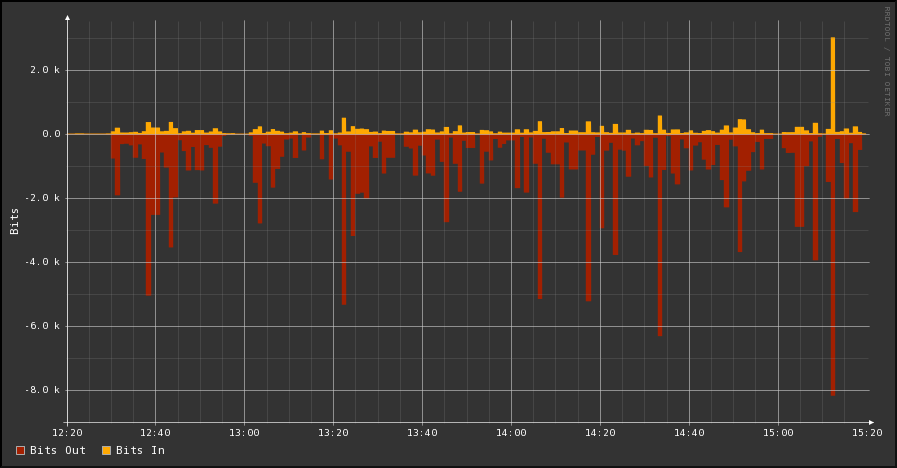
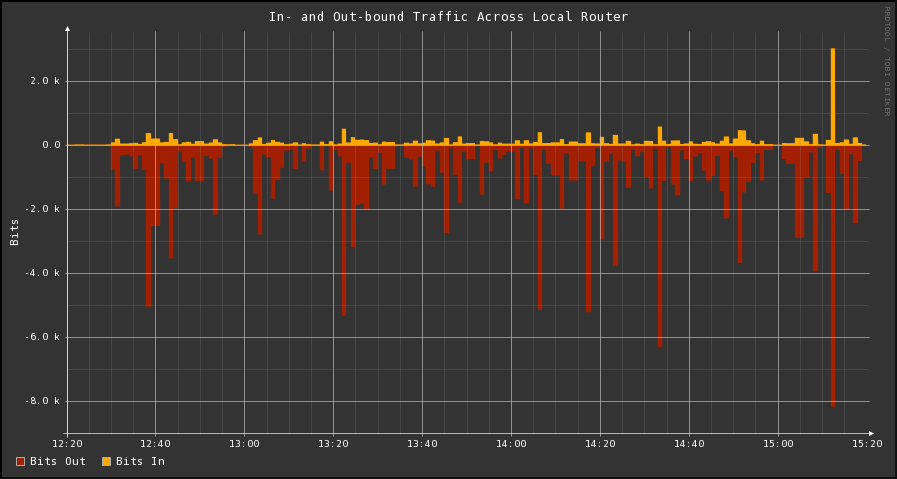
* Updated the commends in example5.py and extended the 3-day archive to a 7-day archive. * Corrected the vname in cdef1 of example5.py.

diff --git a/examples/example5.py b/examples/example5.py
@@ -26,7 +26,7 @@ start_time = 1138259700
 end_time = 1138573200
 max_steps = int((end_time-start_time)/step)
 
-# Let's create and RRD file and dump some data in it
+# Let's setup some data sources for our RRD
 dss = []
 ds1 = DS(ds_name='ds_in_pkts', ds_type='ABSOLUTE', heartbeat=900)
 ds2 = DS(ds_name='ds_in_bits', ds_type='ABSOLUTE', heartbeat=900)
@@ -34,15 +34,17 @@ ds3 = DS(ds_name='ds_out_pkts', ds_type='ABSOLUTE', heartbeat=900)
 ds4 = DS(ds_name='ds_out_bits', ds_type='ABSOLUTE', heartbeat=900)
 dss.extend([ds1, ds2, ds3, ds4])
 
+# An now let's setup how our RRD will archive the data
 rras = []
 # 1 days-worth of one-minute samples --> 60/1 * 24
 rra1 = RRA(cf='AVERAGE', xff=0, steps=1, rows=1440) 
-# 3 days-worth of five-minute samples --> 60/5 * 24 * 3
-rra2 = RRA(cf='AVERAGE', xff=0, steps=5, rows=864)
+# 7 days-worth of five-minute samples --> 60/5 * 24 * 7
+rra2 = RRA(cf='AVERAGE', xff=0, steps=5, rows=2016)
 # 30 days-worth of five-minute samples --> 60/60 * 24 * 30
 rra3 = RRA(cf='AVERAGE', xff=0, steps=60, rows=720)
 rras.extend([rra1, rra2, rra3])
 
+# With those setup, we can now created the RRD
 my_rrd = RRD(filename, step=step, ds=dss, rra=rras, start=start_time)
 my_rrd.create(debug=False)
 
@@ -86,7 +88,7 @@ def1 = DEF(rrdfile=my_rrd.filename, vname='in', ds_name=ds1.name)
 def2 = DEF(rrdfile=my_rrd.filename, vname='out', ds_name=ds2.name)
 # Here we're just going to mulitply the in bits by 100, solely for
 # the purpose of display
-cdef1 = CDEF(vname='tenin', rpn='%s,%s,*' % (def1.vname, 100))
+cdef1 = CDEF(vname='hundredin', rpn='%s,%s,*' % (def1.vname, 100))
 cdef2 = CDEF(vname='negout', rpn='%s,-1,*' % def2.vname)
 area1 = AREA(def_obj=cdef1, color='#FFA902', legend='Bits In')
 area2 = AREA(def_obj=cdef2, color='#A32001', legend='Bits Out')
@@ -107,6 +109,8 @@ ca.arrow = '#FFFFFF'
 g = Graph('dummy.png', end=end_time, vertical_label='Bits', 
     color=ca)
 g.data.extend([def1, def2, cdef1, cdef2, area2, area1])
+g.title = '"In- and Out-bound Traffic Across Local Router"'
+#g.logarithmic = ' '
 
 # Iterate through the different resoltions for which we want to 
 # generate graphs.
